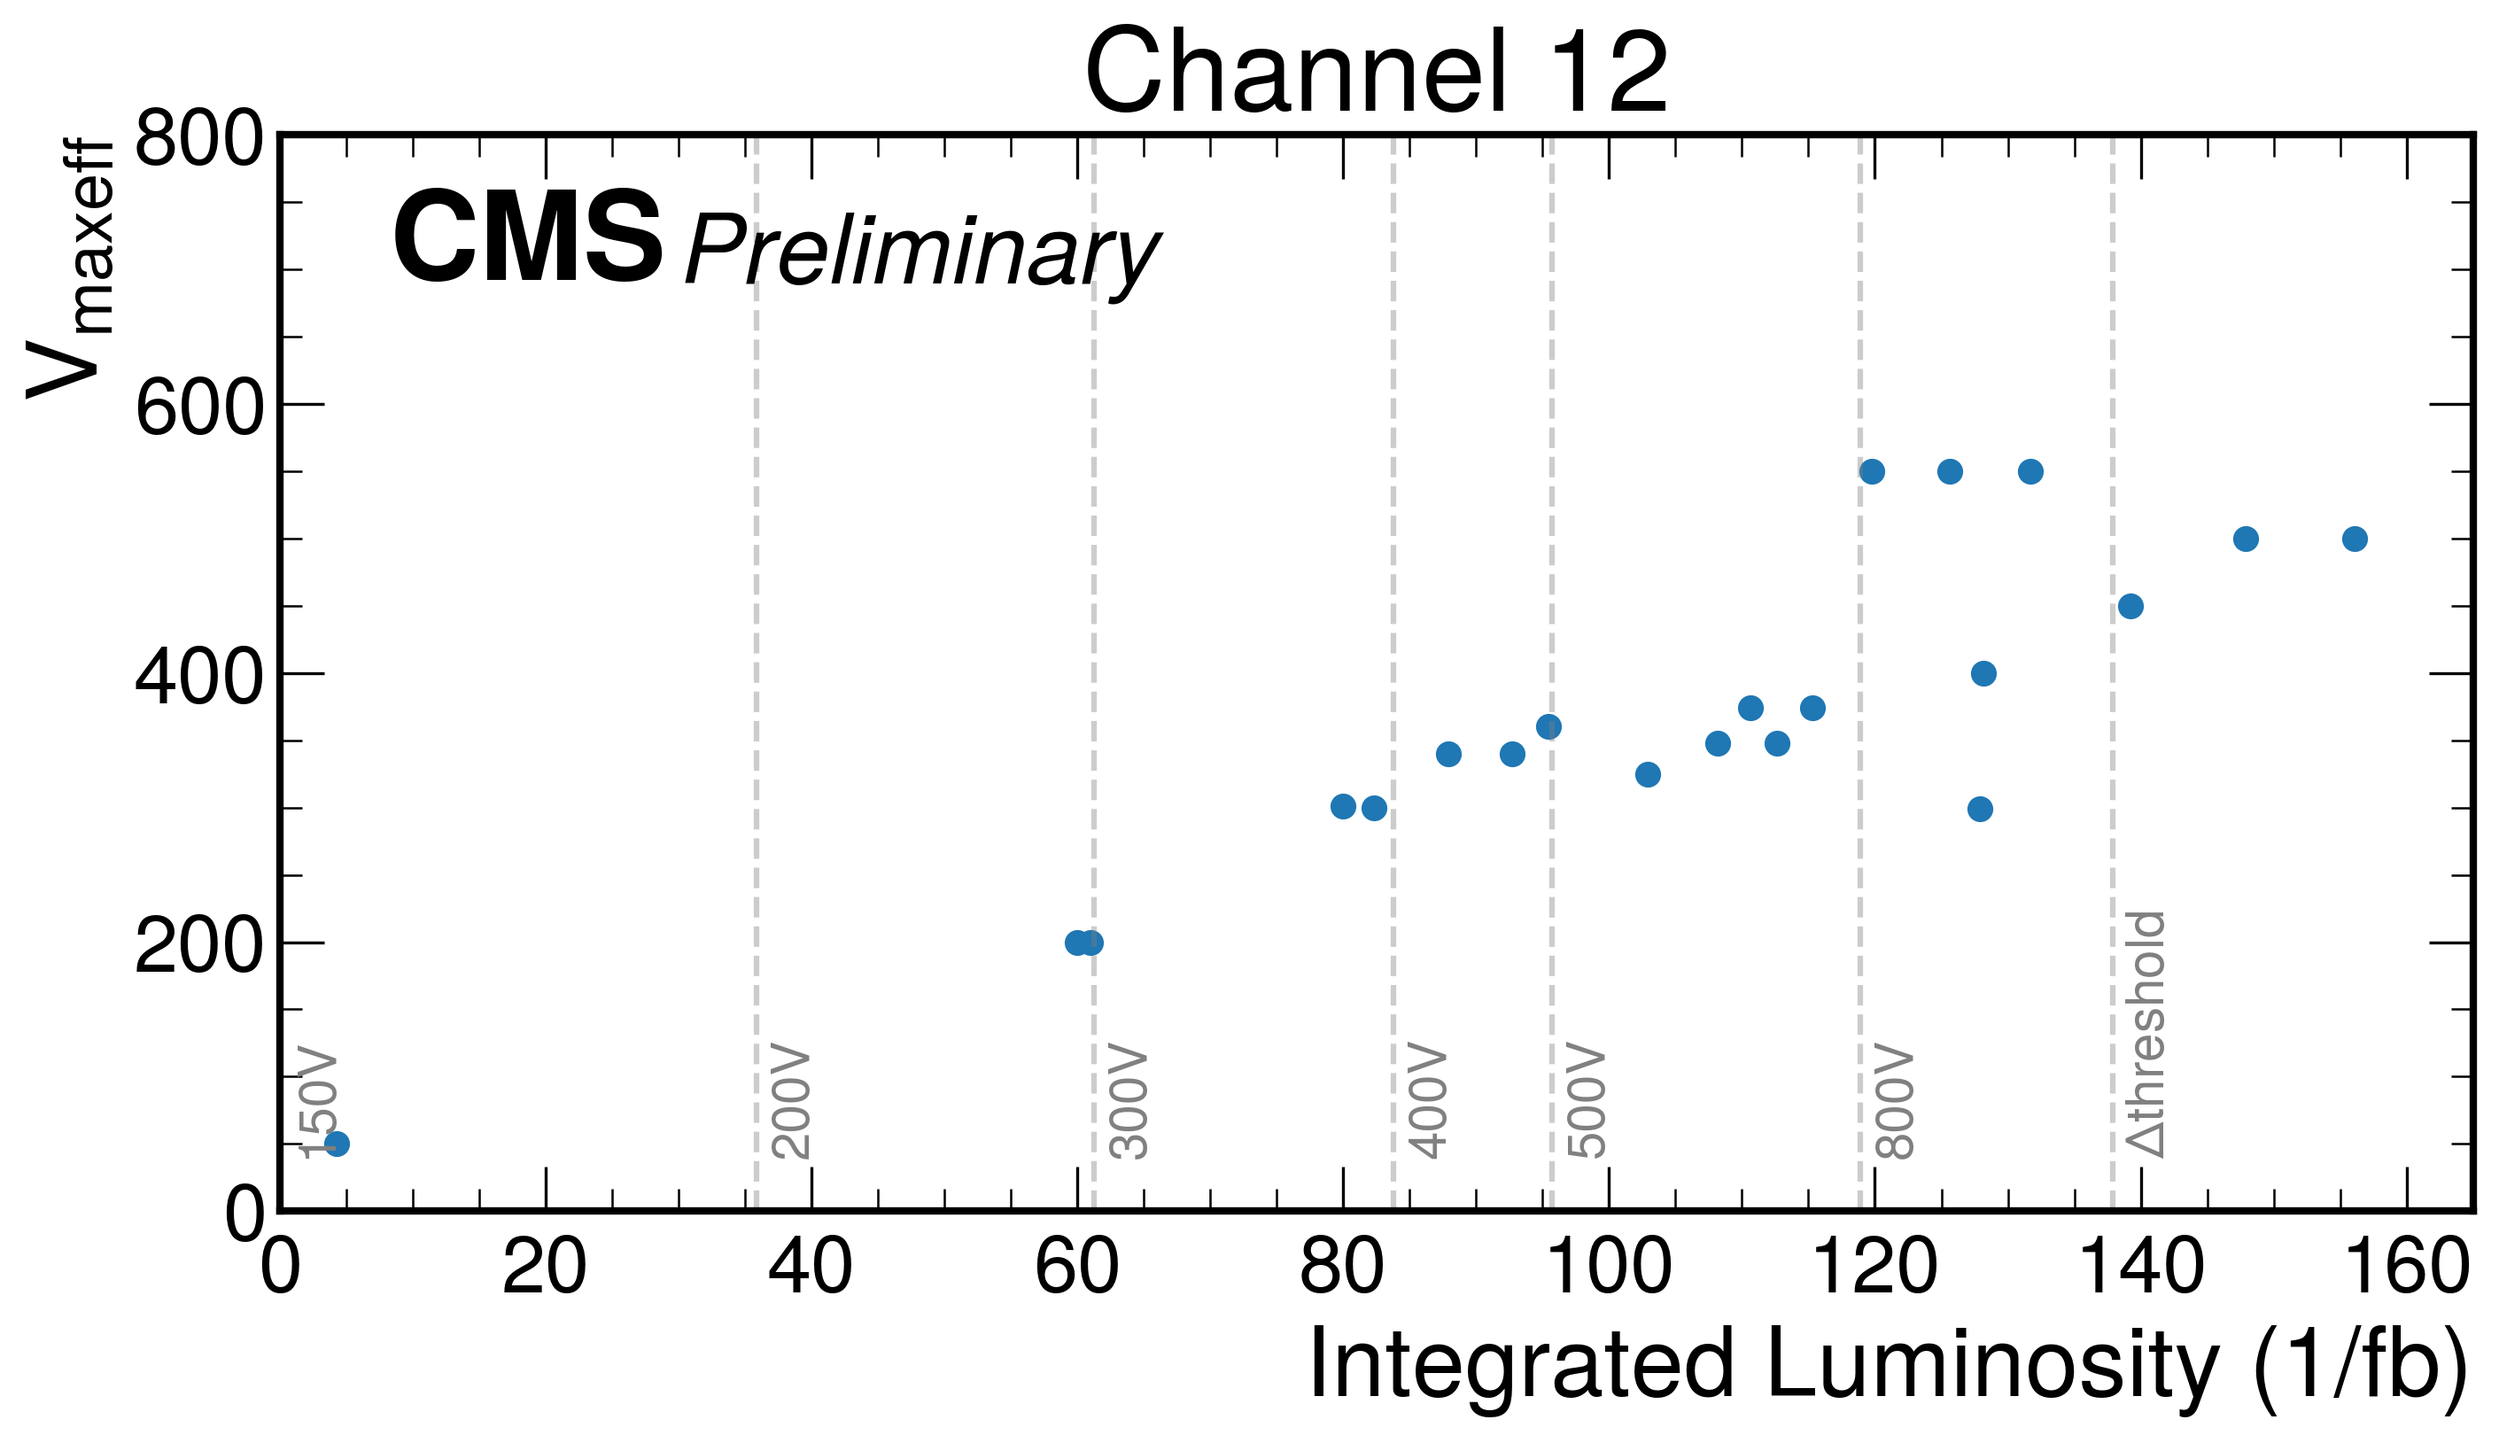
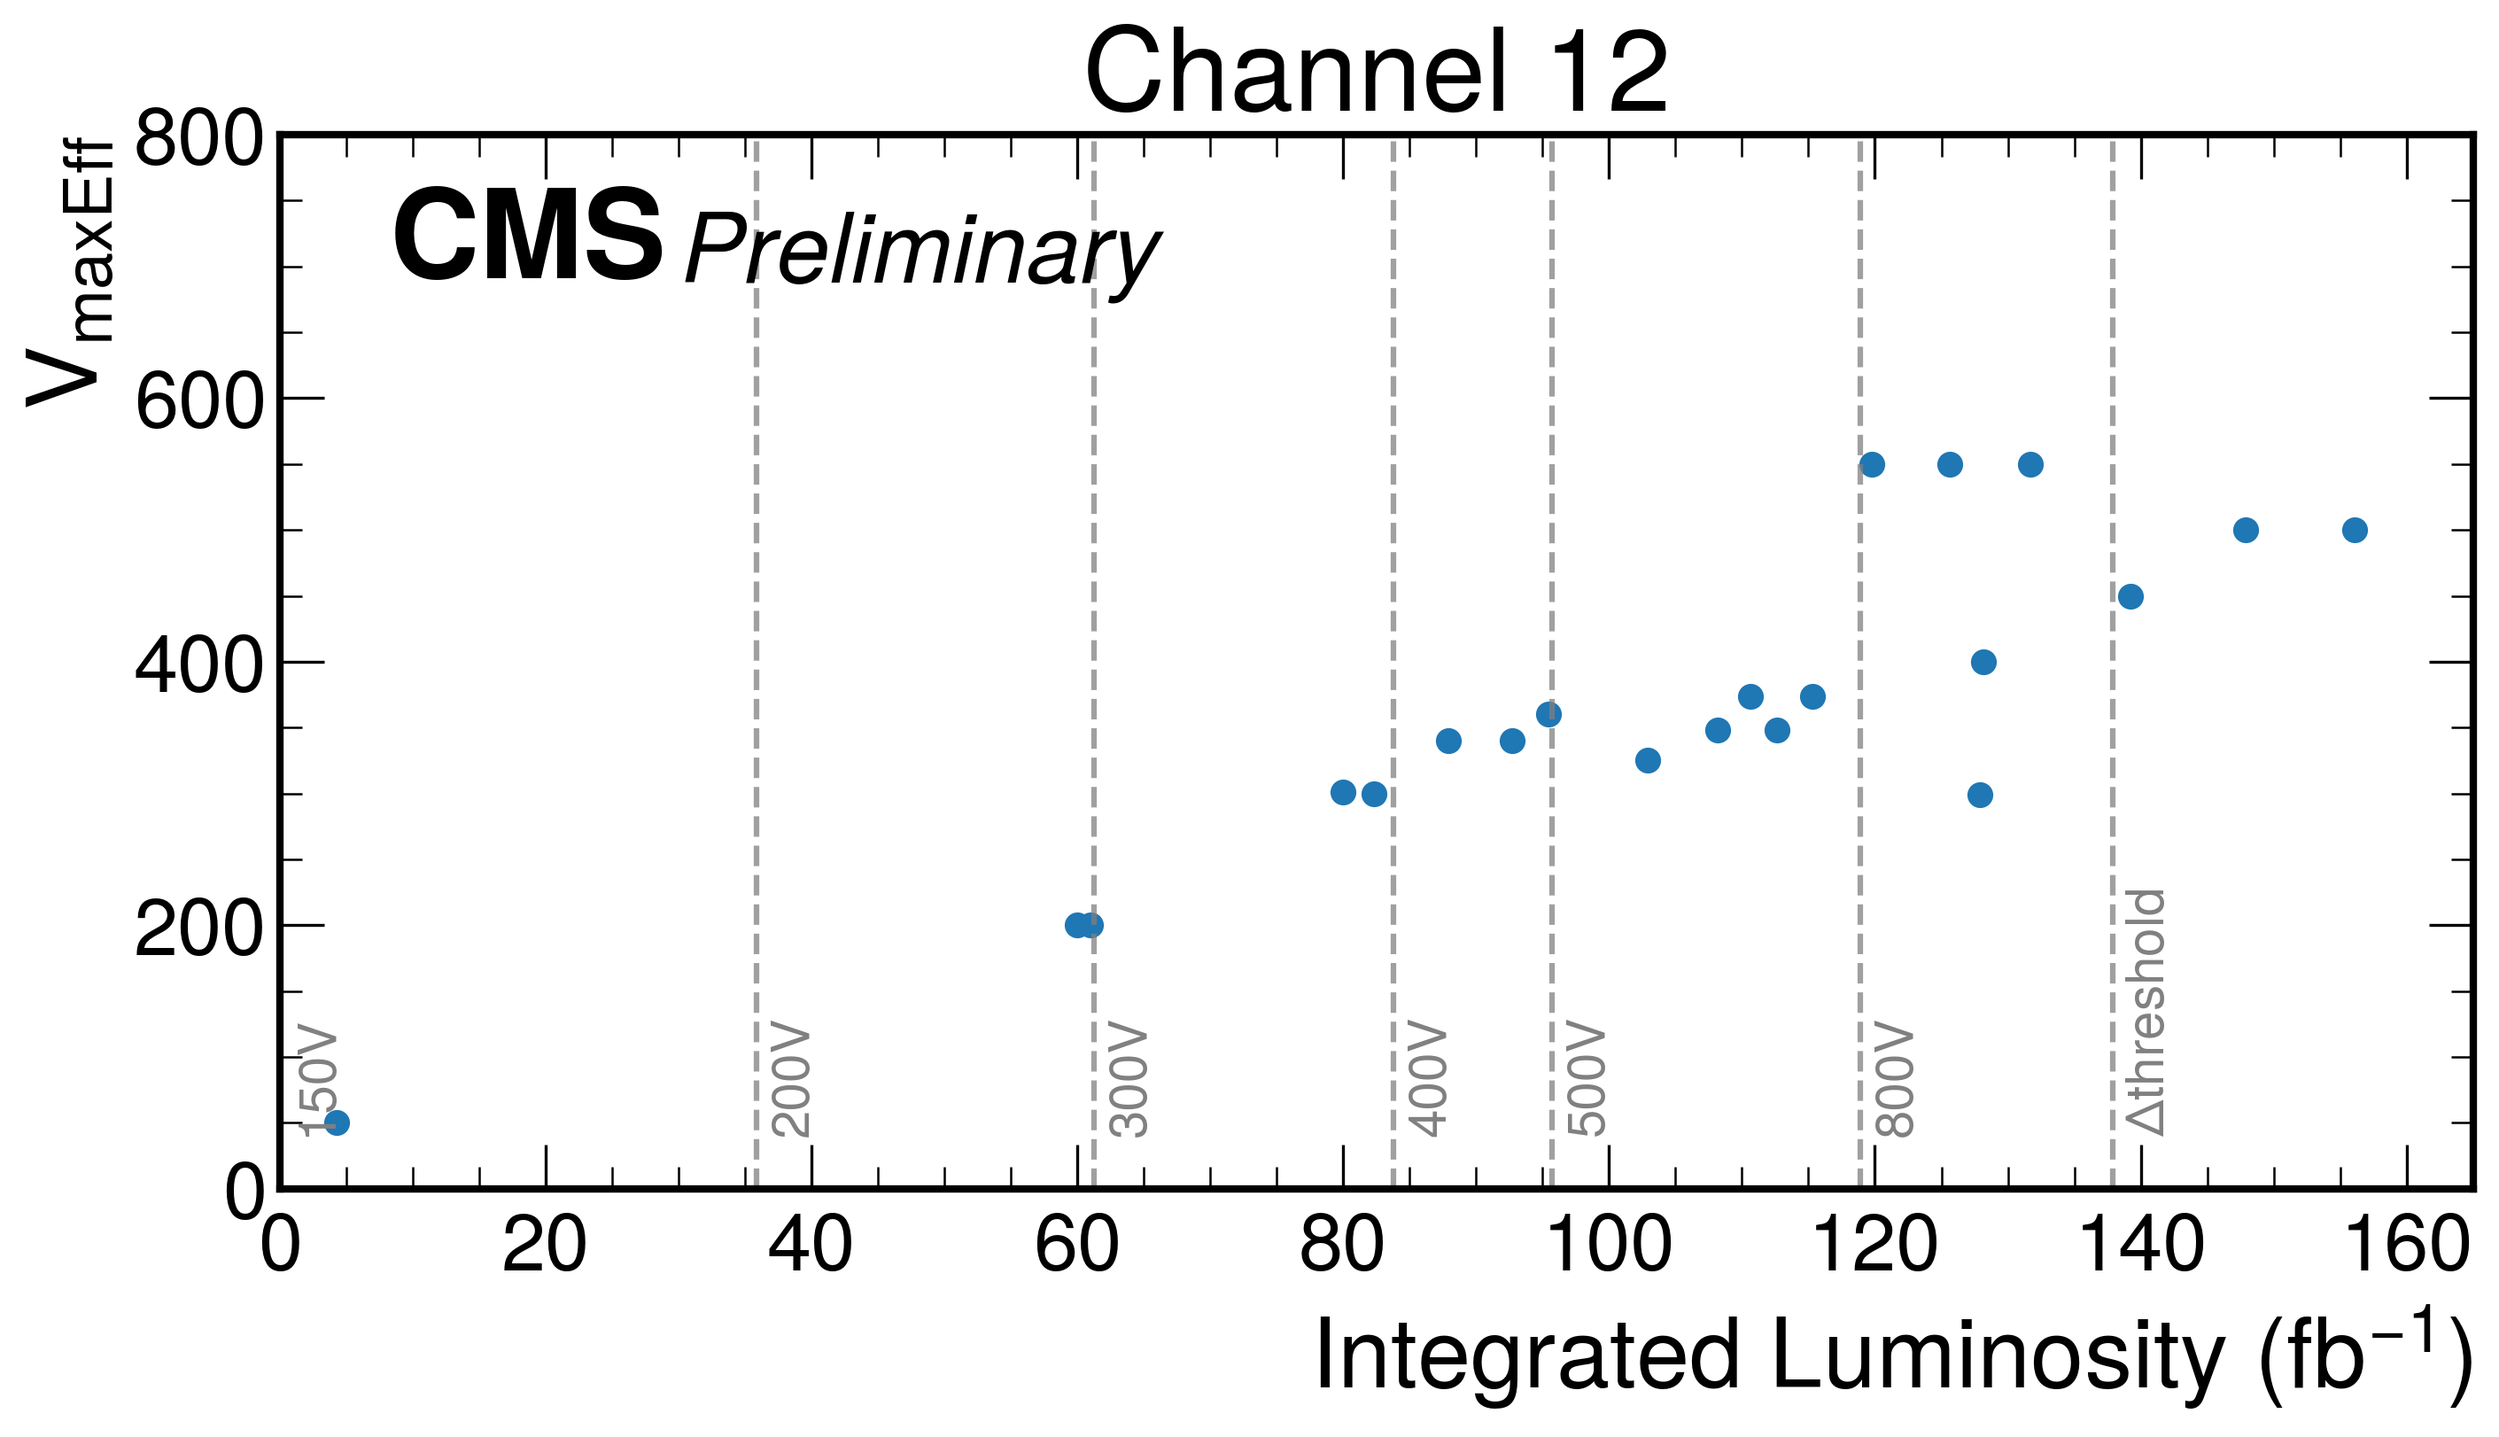
vertical lines darker; fix vMaxEff; use fb^-1 instead of 1/fb

diff --git a/DepletionVoltage/plotDeplVolt.py b/DepletionVoltage/plotDeplVolt.py
@@ -1,9 +1,16 @@
 #!/usr/bin/env python3
 
-import os, sys, typing, mplhep, pandas, json, matplotlib.pyplot
+import json
+import os 
+import sys
+import typing
+
+import matplotlib.pyplot
+import mplhep
+import pandas
 
 def loadDeplVolt() -> pandas.DataFrame:
-    # load json file with depletion voltage values
+    '''load json file with depletion voltage values'''
     with open('depletionVoltage.json', 'r') as deplVoltFile:
         deplVolt = pandas.DataFrame.from_dict(json.load(deplVoltFile)).T
     deplVolt.index = [fname.split('/')[1].lstrip('Scan_').rstrip('.txt') for fname in deplVolt.index.to_list()]
@@ -11,21 +18,21 @@ def loadDeplVolt() -> pandas.DataFrame:
     return deplVolt
 
 def intLumiByDate() -> pandas.DataFrame:
-    # return dataframe Run2 cumulative integrated lumi (in 1/fb) with the date as index
-    file='lumiByDay.csv' if os.path.exists('lumiByDay.csv') else 'https://cern.ch/cmslumi/publicplots/lumiByDay.csv'
-    lumiByDay = pandas.read_csv(file)
+    '''return dataframe Run2 cumulative integrated lumi (in 1/fb) with the date as index'''
+    lumiByDay = 'lumiByDay.csv' if os.path.exists('lumiByDay.csv') else 'https://cern.ch/cmslumi/publicplots/lumiByDay.csv'
+    lumiByDay = pandas.read_csv(lumiByDay)
     lumiByDay = lumiByDay[lumiByDay.Date >= '2015'] # LHC Run2
     lumiByDay.Date = pandas.to_datetime(lumiByDay.Date, format='%Y-%m-%d')
     lumiByDay['IntLumi(/fb)'] = lumiByDay['Delivered(/ub)'].cumsum().divide(10**9)
     return lumiByDay[['Date','IntLumi(/fb)']].set_index('Date')
 
 def plotAxVline(intLumi:str, intLumiAx:matplotlib.axes.Axes, label:str, fontsize:int=14, position:str='bottom'):
-    # add vertical line at the specified intLumi (given by intLumiByDate())
-    matplotlib.pyplot.axvline(x=intLumi, color='grey', linestyle='--', alpha=0.4, label=label)
+    '''add vertical line at the specified intLumi (given by intLumiByDate())'''
+    matplotlib.pyplot.axvline(x=intLumi, color='grey', linestyle='--', alpha=0.75, label=label)
     matplotlib.pyplot.text(x=(intLumi+1)/intLumiAx.get_xlim()[1], y=0.05, s=label, color='grey', rotation=90, fontsize=fontsize, verticalalignment=position, transform=intLumiAx.transAxes)
 
 def dateSecondaryAxis(intLumiAx:matplotlib.axes.Axes, lumiAtScanDate:typing.List[float], dataCh:pandas.Series):
-    # Add secondary date axis [https://stackoverflow.com/a/33447004/13019084]
+    '''Add secondary date axis [https://stackoverflow.com/a/33447004/13019084]'''
     dateAx = intLumiAx.twiny()
     dateAx.set_xlim(intLumiAx.get_xlim()) # set same range as intLumi axis
     dateAx.set_xticks(lumiAtScanDate) # copy location of intLumi x-ticks
@@ -34,7 +41,7 @@ def dateSecondaryAxis(intLumiAx:matplotlib.axes.Axes, lumiAtScanDate:typing.List
     _ = [label.set_visible(False) for label in dateAx.get_xaxis().get_ticklabels()[1::2]] # print every second xticklabel starting with the first [https://stackoverflow.com/a/50034357/13019084]
 
 def plotDeplVolt(ch:int):
-    # plot depletion voltage vs time for channel 'ch'
+    '''plot depletion voltage vs time for channel `ch`'''
     deplVolt = loadDeplVolt()
     dataCh = deplVolt[ch][deplVolt[ch] != 0] # depletion voltage dataframe (drop entries where depletion voltage == 0 )
     intLumi = intLumiByDate()
@@ -43,9 +50,14 @@ def plotDeplVolt(ch:int):
     (fig, intLumiAx) = matplotlib.pyplot.subplots(figsize=(10, 6))
     # (fontsize, markersize) = 12, 40
     intLumiAx.scatter(x=lumiAtScanDate, y=dataCh.to_list()) # s=markersize
-    intLumiAx.set_title(label=f'Ch{ch} Depletion Voltage vs Integrated Luminosity') # fontsize=20
-    matplotlib.pyplot.xlabel(xlabel='Integrated Luminosity (1/fb)') # fontsize=fontsize
-    matplotlib.pyplot.ylabel(ylabel='Depletion Voltage (V)') # fontsize=fontsize
+    # intLumiAx.set_title(label=f'Ch{ch} Depletion Voltage vs Integrated Luminosity') # fontsize=20
+    # intLumiAx.set_title(label=f'Ch{ch} HV Setpoint for Maximium Hit Efficiency\nvs Integrated Luminosity') # fontsize=20
+    intLumiAx.set_title(label=f'Channel {ch}') # fontsize=20
+    matplotlib.pyplot.xlabel(xlabel=r'Integrated Luminosity ($\mathrm{fb^{-1}}$)') # fontsize=fontsize
+    # matplotlib.pyplot.ylabel(ylabel='Depletion Voltage (V)') # fontsize=fontsize
+    # matplotlib.pyplot.ylabel(ylabel=' HV Setpoint (V)') # fontsize=fontsize
+    # matplotlib.pyplot.ylabel(ylabel=' HV Setpoint (V) for\nMax Hit Efficiency') # fontsize=fontsize
+    matplotlib.pyplot.ylabel(ylabel=r'$\mathrm{V_{maxEff}}$') # fontsize=fontsize
     # matplotlib.pyplot.xticks(fontsize=fontsize)
     # matplotlib.pyplot.yticks(fontsize=fontsize)
     # matplotlib.pyplot.text(x=0.01, y=0.99, transform=intLumiAx.transAxes, horizontalalignment='left', verticalalignment='top', s=r'$\bf{CMS}$ $\it{Preliminary}$', fontsize=fontsize)
